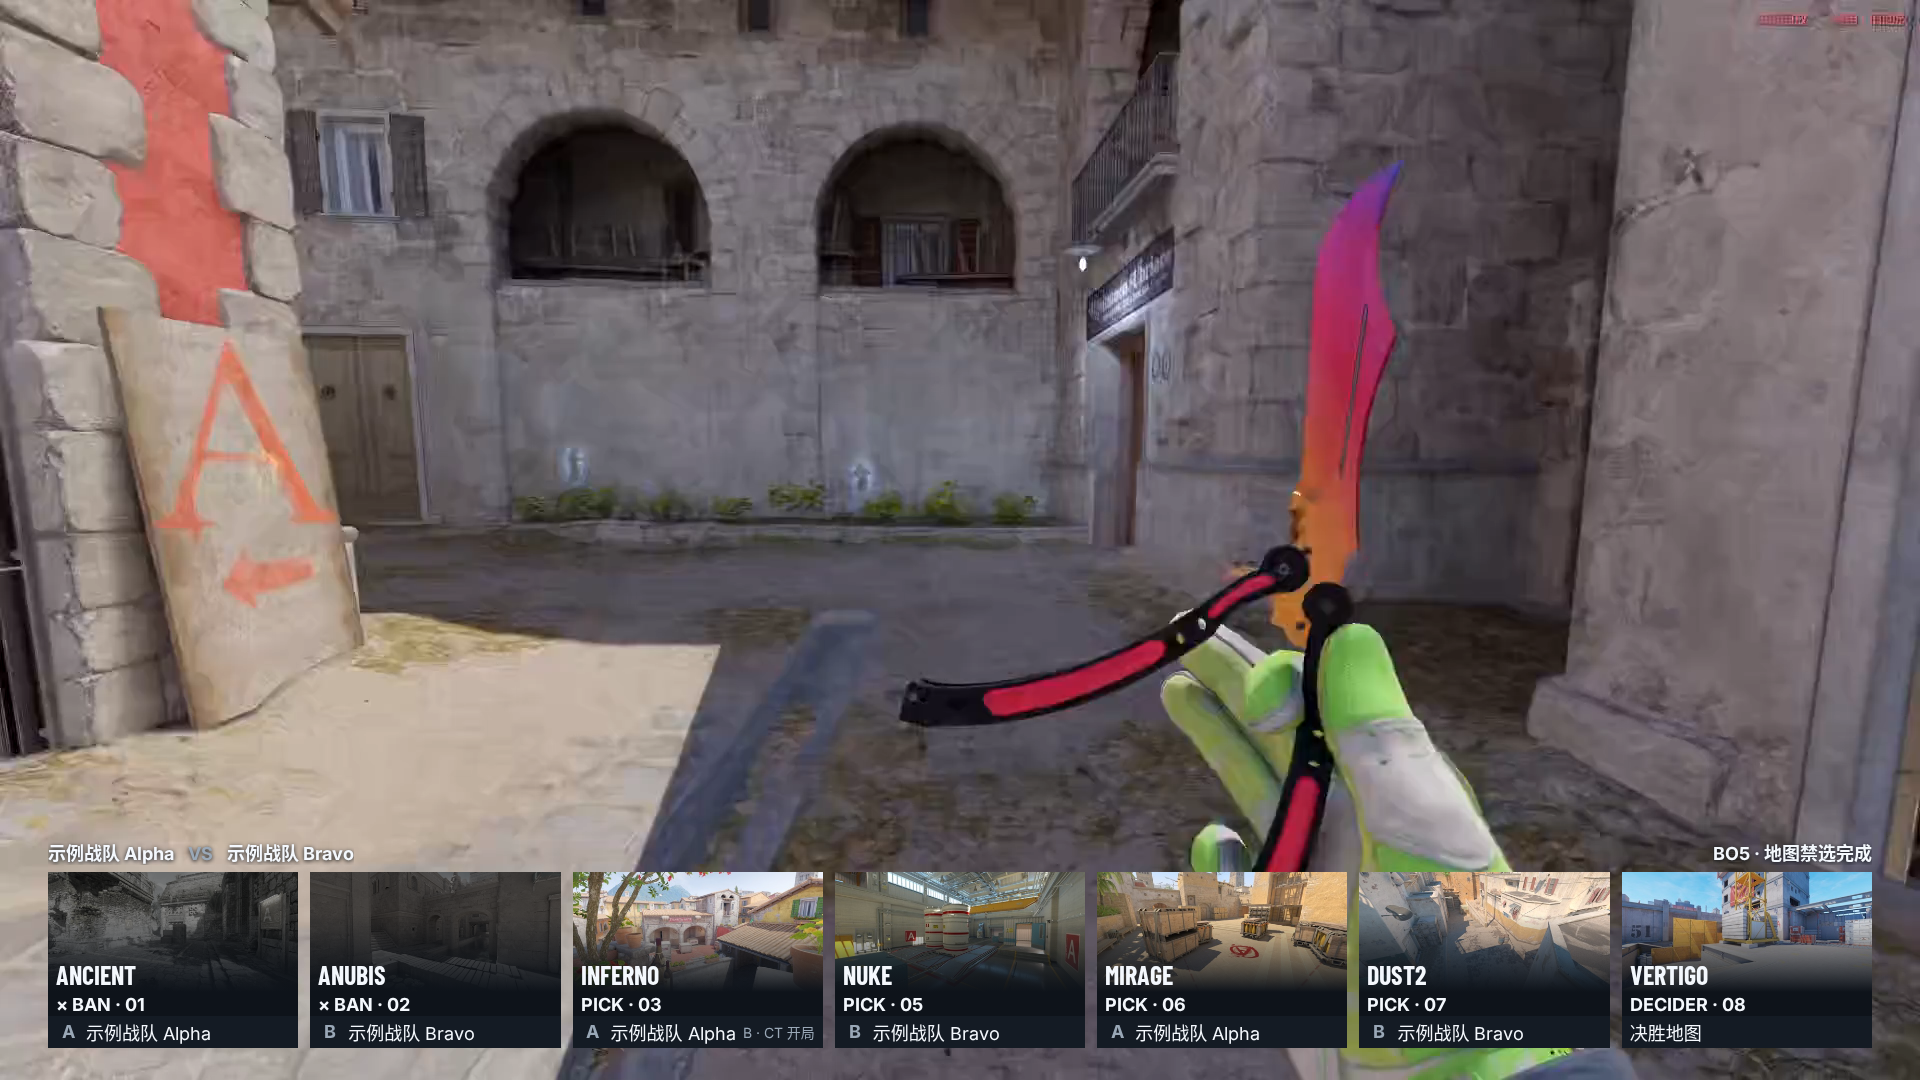
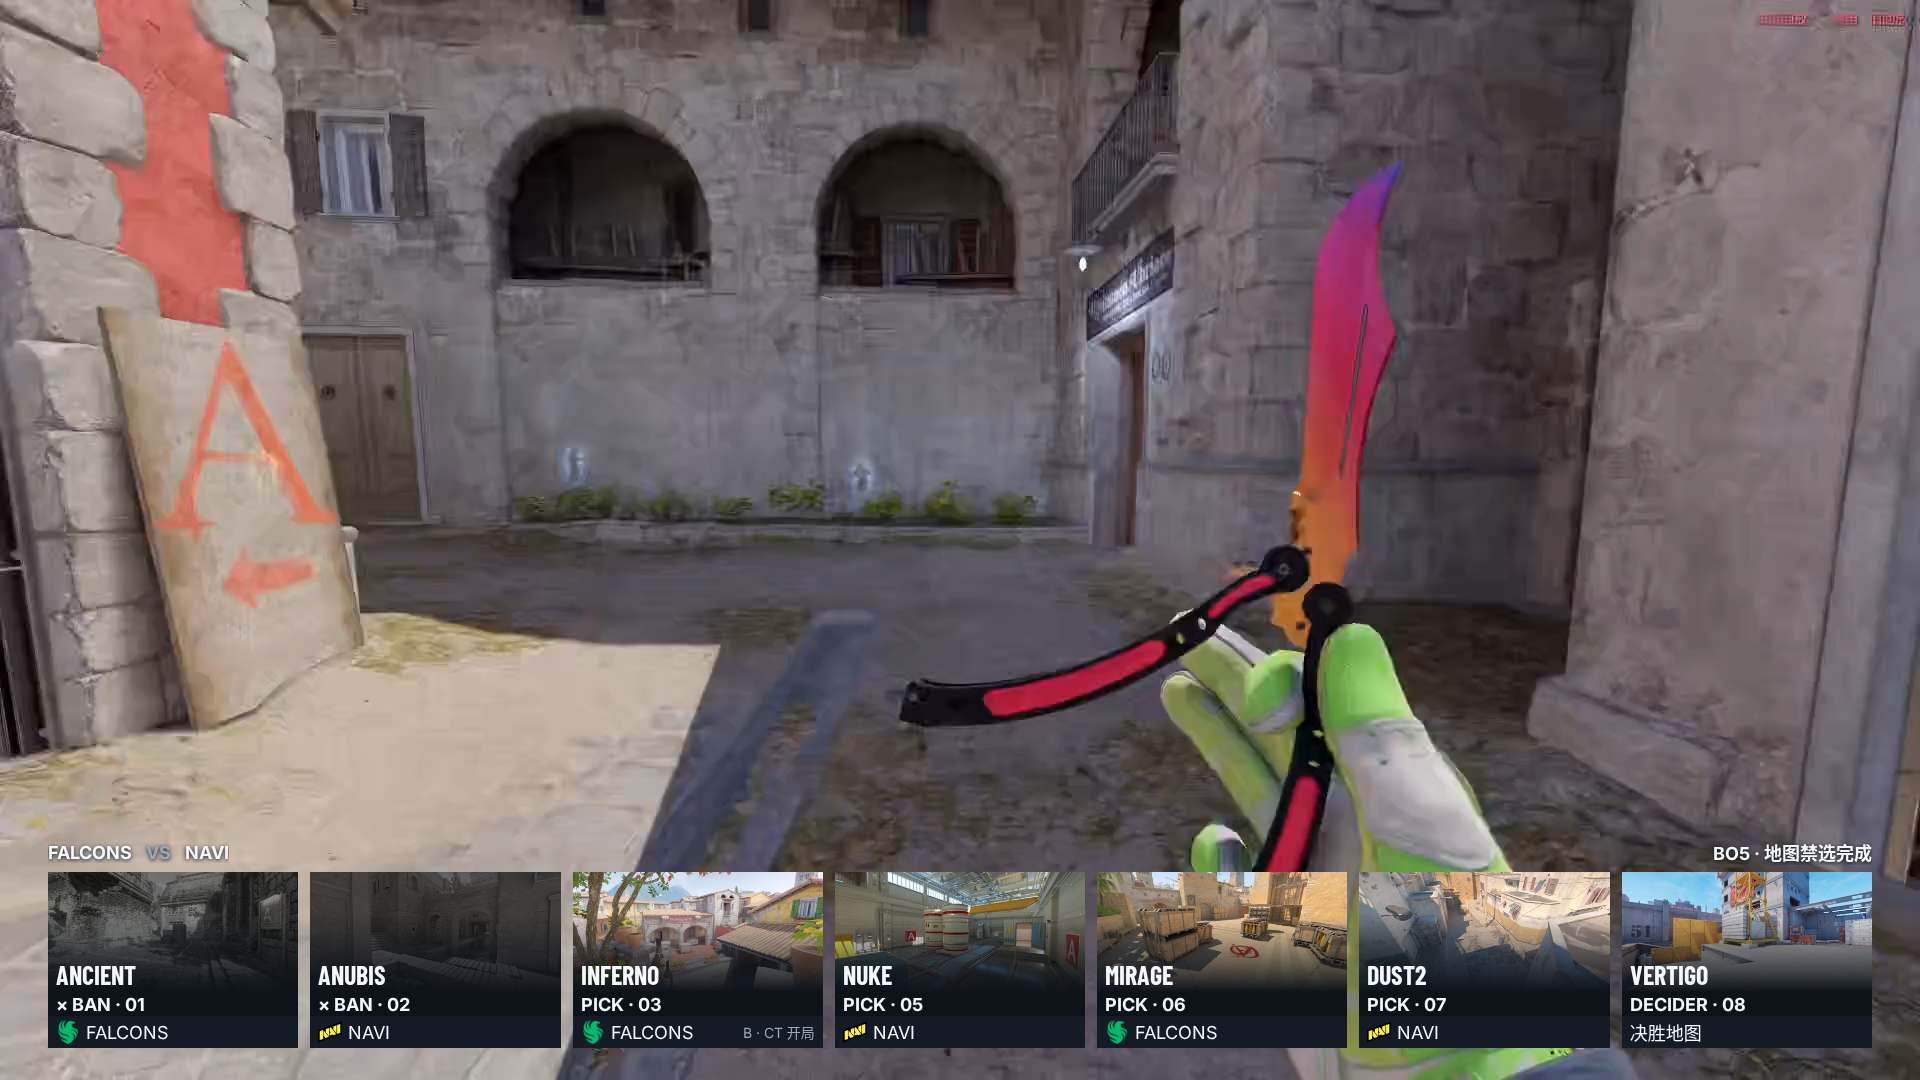
test(bp): 用队徽完善底栏视觉证据

diff --git a/docs/screenshots/bp-compact-v2/README.md b/docs/screenshots/bp-compact-v2/README.md
@@ -1,3 +1,3 @@
 # 紧凑 BP 视觉 fixture
 
-截图由实际 `BpCompactPresentation` 在 Chromium 生成，背景是仓库 `fixtures/epl-inferno-video/replay/background.mp4` 的一帧，队名和 BP 为合成 fixture，不是 OBS 或赛事实机证据。`seven-mixed` 为 BO3 完成态，`reveal-current` 为进行中，`all-pending` 是直接传入零揭示游标的合成边界测试（正常 session 的非隐藏快照从第一步开始）。BO1／BO3／BO5 各含七个固定卡槽，`missing-long` 使用未知地图和长中文名，`scaled-720` 在浏览器中将 1920×1080 画布等比缩小到 1280×720。
+截图由实际 `BpCompactPresentation` 在 Chromium 生成，背景是仓库 `fixtures/epl-inferno-video/replay/background.mp4` 的一帧，BP 为合成 fixture，FALCONS／NAVI 队标使用仓库现有 fixture 素材，不是 OBS 或赛事实机证据。`seven-mixed` 为 BO3 完成态，`reveal-current` 为进行中，`all-pending` 是直接传入零揭示游标的合成边界测试（正常 session 的非隐藏快照从第一步开始）。BO1／BO3／BO5 各含七个固定卡槽，`missing-long` 使用未知地图和长中文名，`scaled-720` 在浏览器中将 1920×1080 画布等比缩小到 1280×720。
